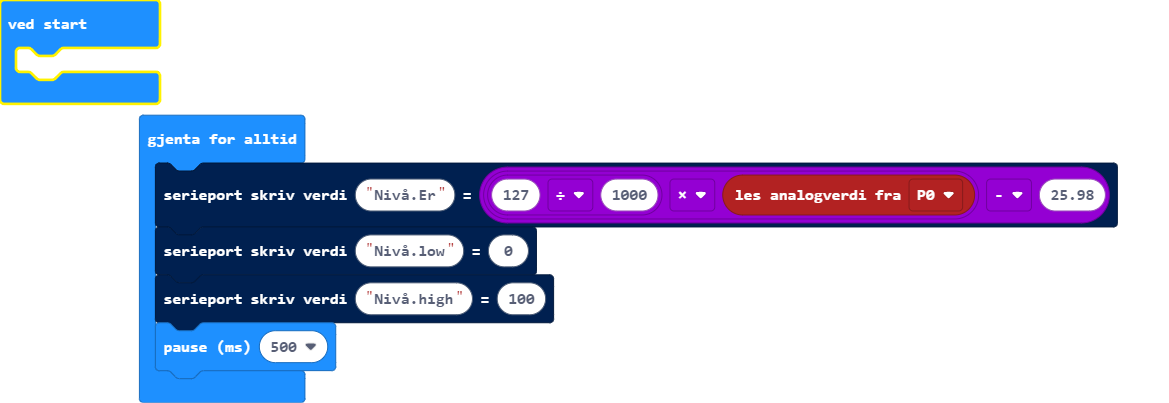
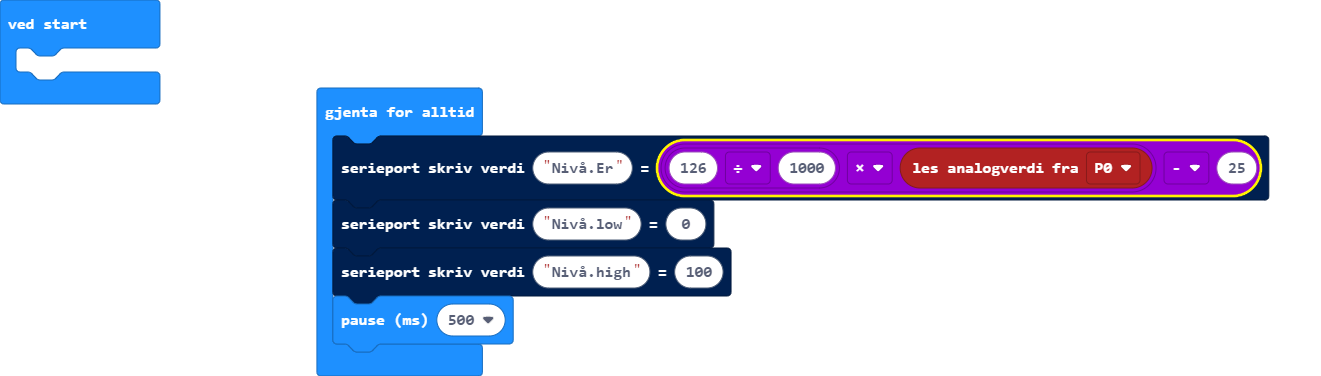
Oppdater main.blocks, main.ts

Changed region(s): [[0.0, 0.0, 0.9855, 1.0]]

diff --git a/main.ts b/main.ts
@@ -1,5 +1,5 @@
 basic.forever(function () {
-    serial.writeValue("Nivå.Er", 127 / 1000 * pins.analogReadPin(AnalogPin.P0) - 25.98)
+    serial.writeValue("Nivå.Er", 126 / 1000 * pins.analogReadPin(AnalogPin.P0) - 25)
     serial.writeValue("Nivå.low", 0)
     serial.writeValue("Nivå.high", 100)
     basic.pause(500)
